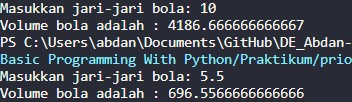
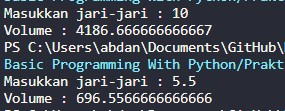
remed

diff --git a/04.Basic Programming With Python/Praktikum/prioritas1no2.py b/04.Basic Programming With Python/Praktikum/prioritas1no2.py
@@ -1,8 +1,7 @@
 phi = 3.14
 
-# Input jari-jari bola dari pengguna
-jari_jari = float(input("Masukkan jari-jari bola: "))
+jari_jari = float(input("Masukkan jari-jari : "))
 
 volume = (4/3) * phi * (jari_jari ** 3)
 
-print(f"Volume bola adalah : {volume}")
+print(f"Volume : {volume}")
